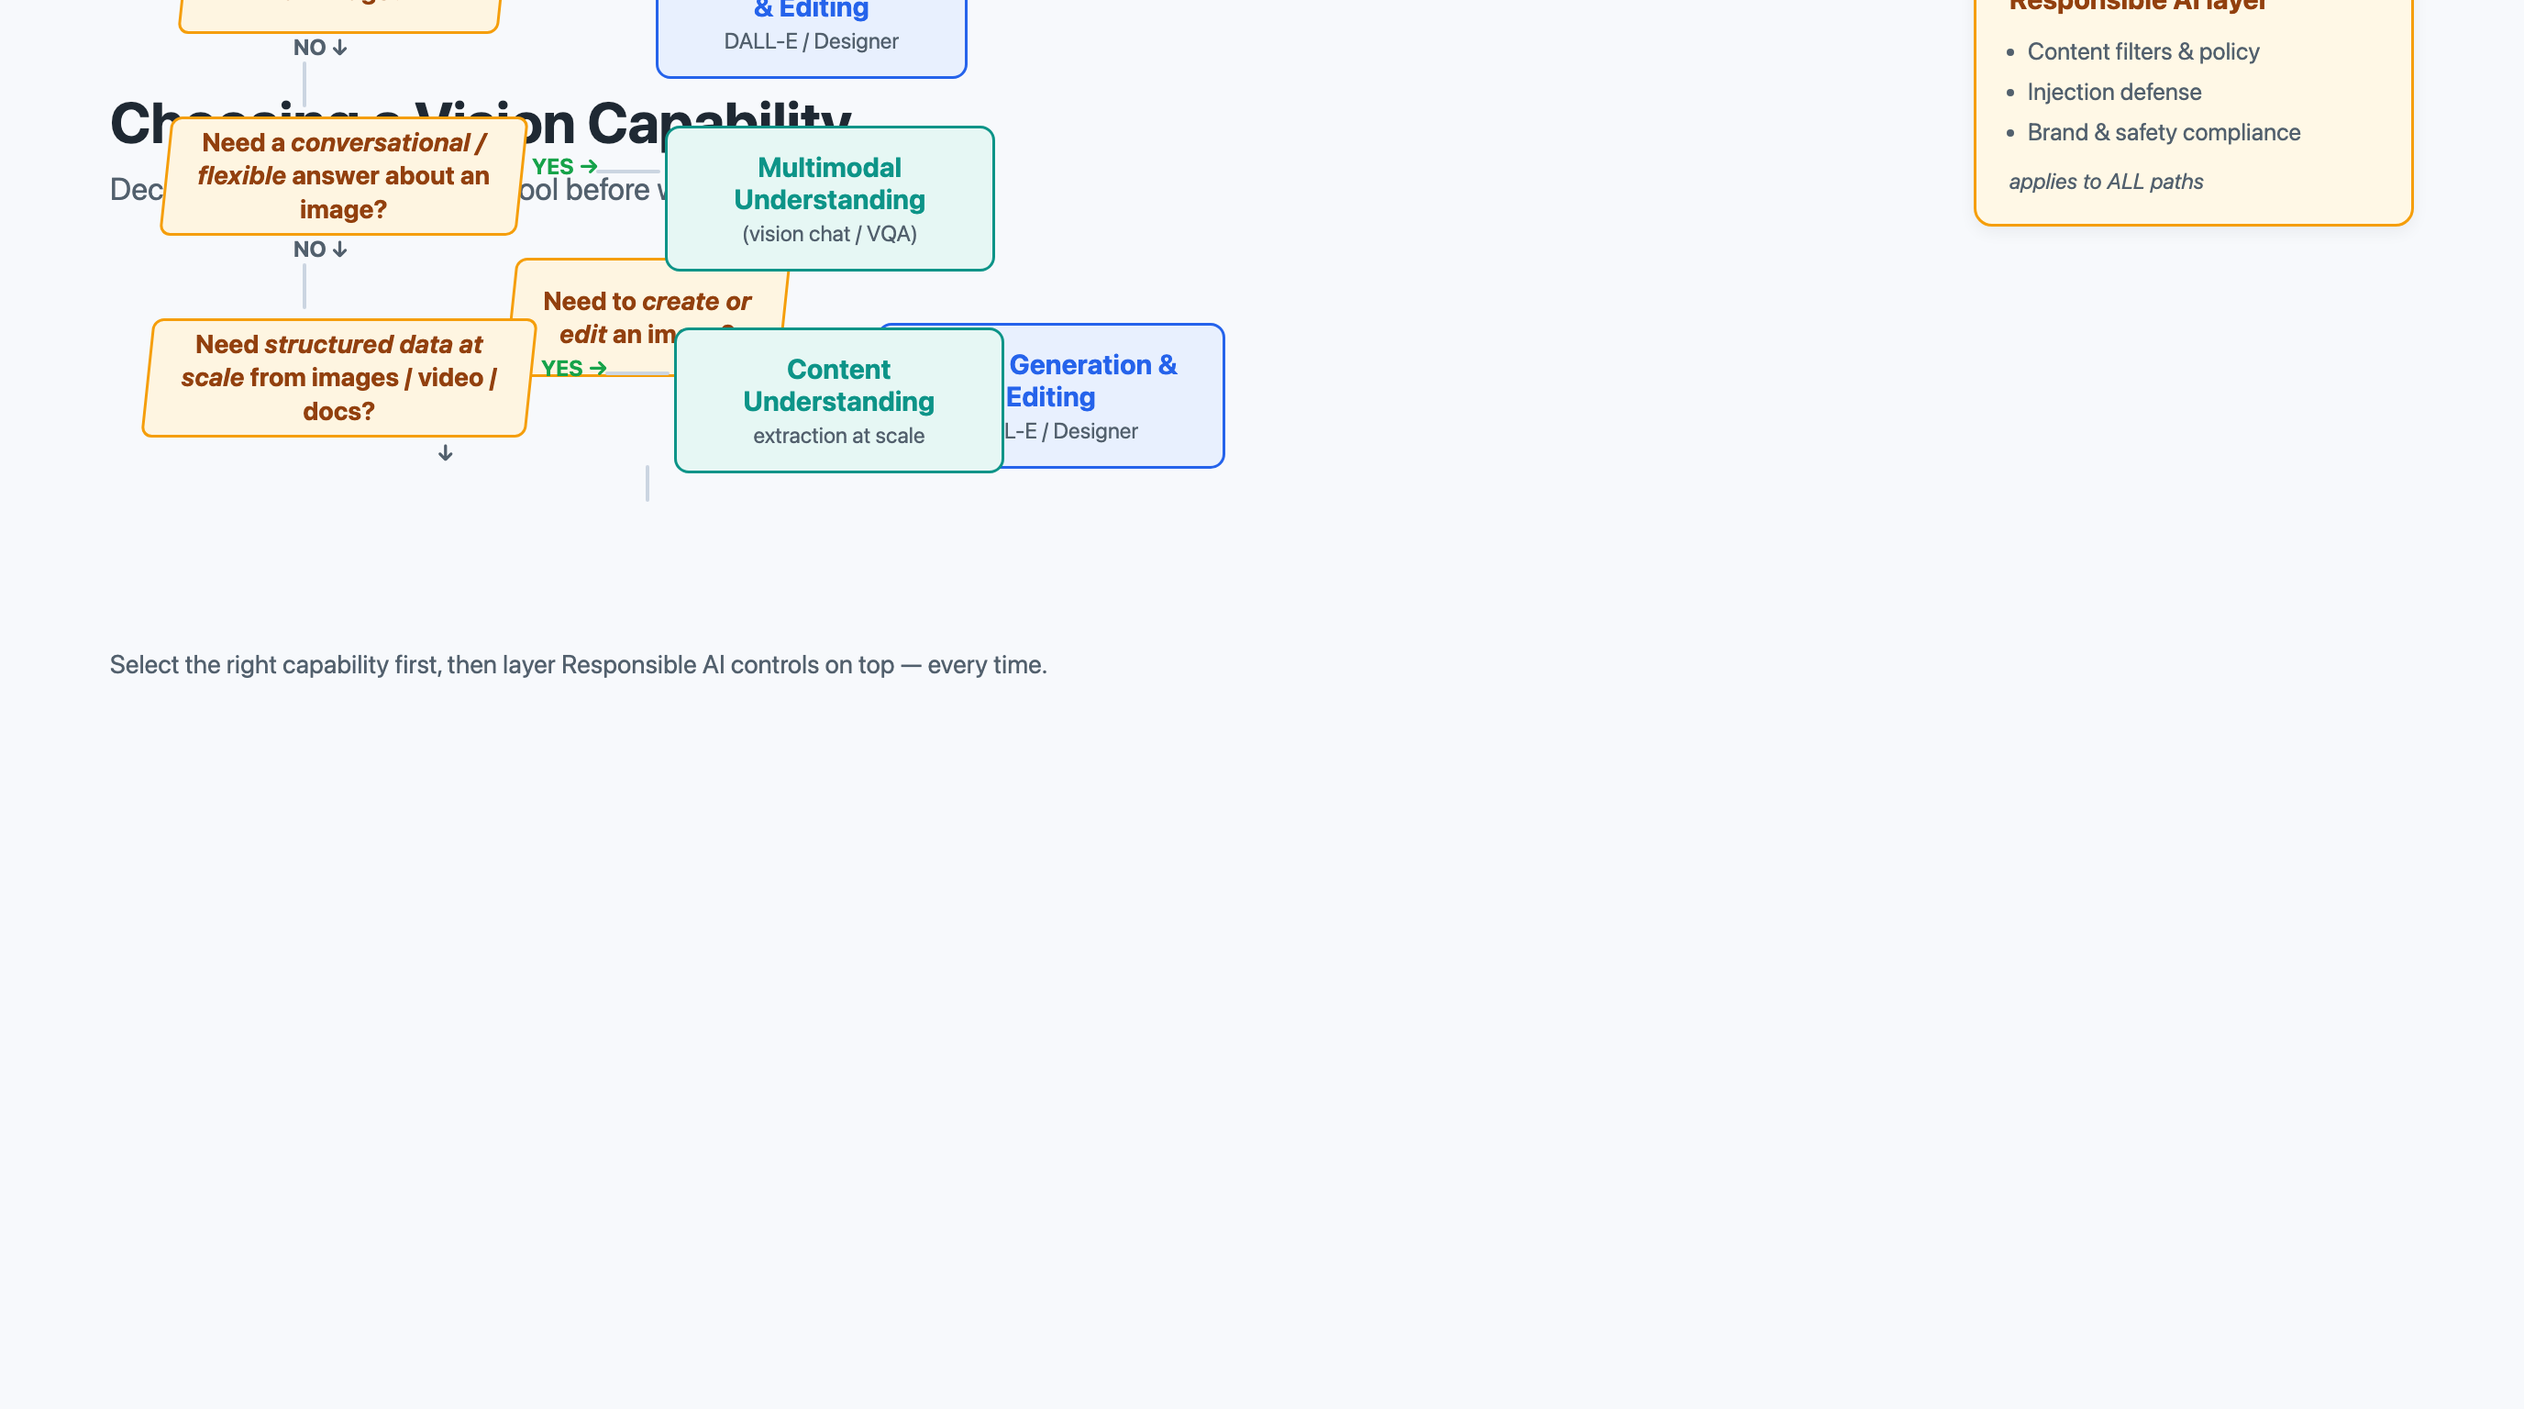
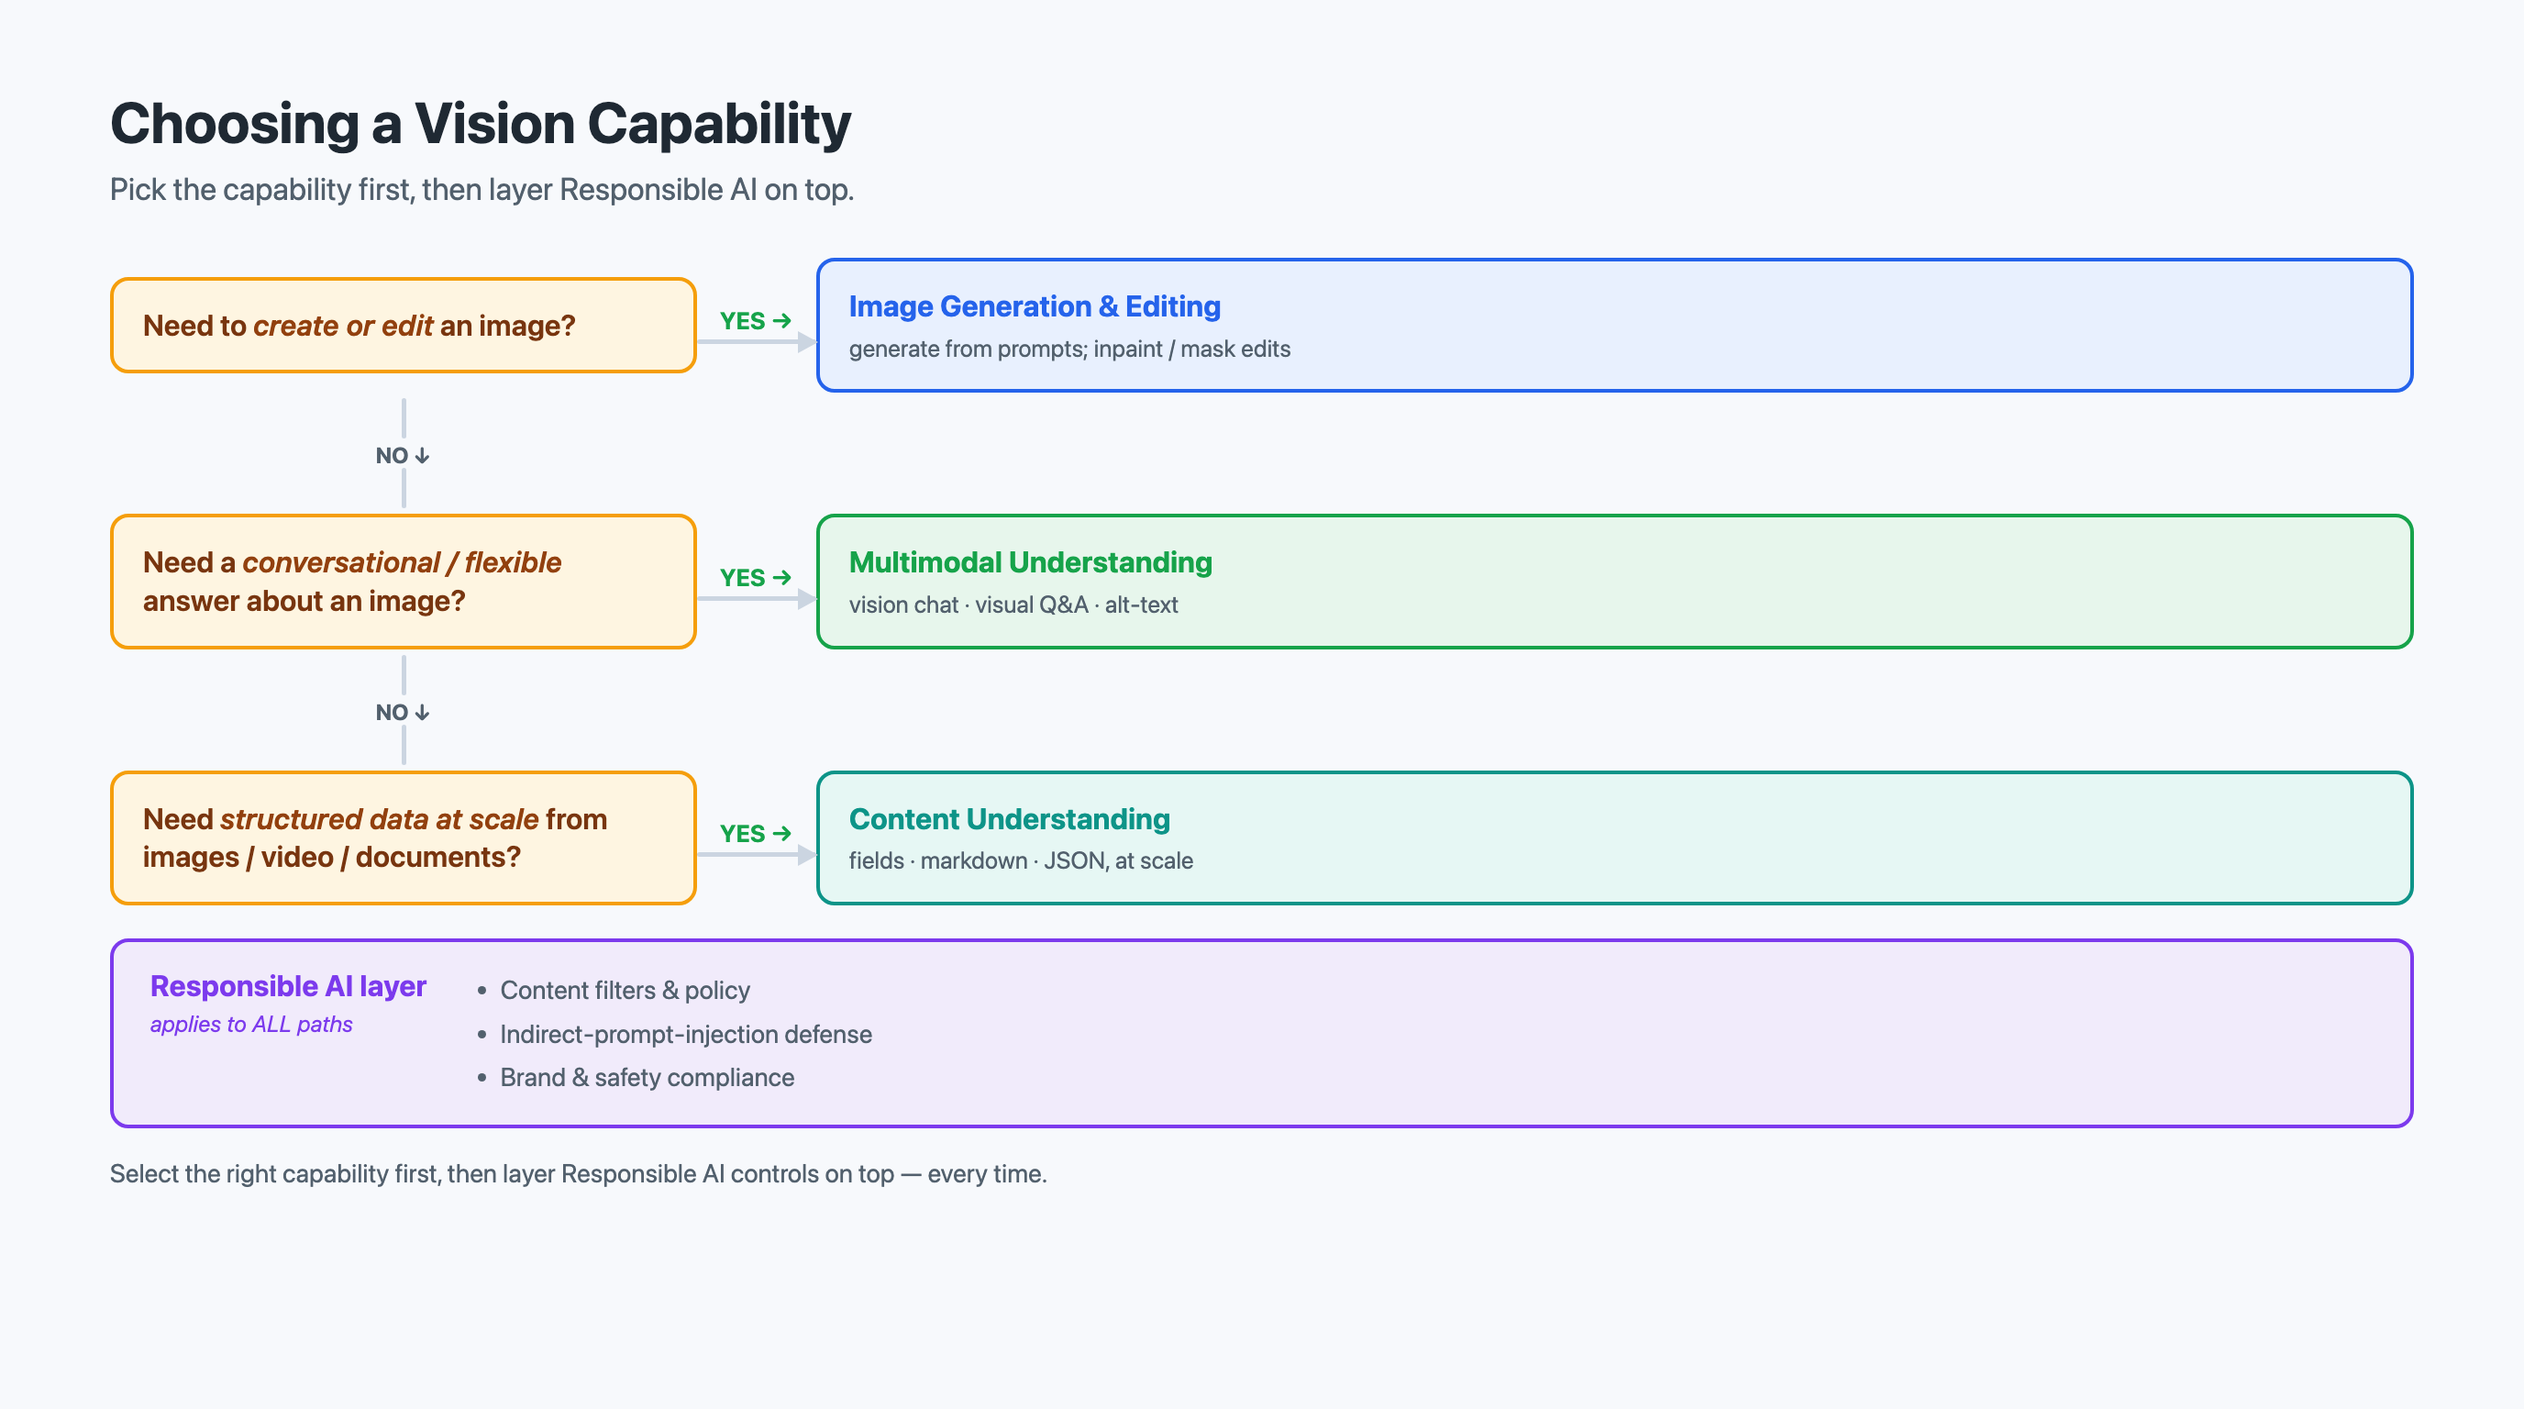
graphics(ch7): rebuild vision selection flowchart, remove DALL-E from vision figures

diff --git a/graphics/src/g7-6-vision-service-selection.html b/graphics/src/g7-6-vision-service-selection.html
@@ -4,131 +4,242 @@
 <meta charset="utf-8">
 <link rel="stylesheet" href="style.css">
 <style>
-.diamond{width:300px;height:130px;background:var(--amber-bg);border:3px solid var(--amber);display:flex;align-items:center;justify-content:center;font-size:28px;font-weight:700;color:#92400e;text-align:center;transform:skewX(-6deg);border-radius:12px;padding:12px 24px;line-height:1.3;}
-.diamond-inner{transform:skewX(6deg);}
-.decision-node{background:var(--blue-bg);border:3px solid var(--blue);border-radius:16px;padding:22px 28px;font-size:28px;font-weight:600;color:var(--blue);text-align:center;}
-.result-node{border-radius:16px;padding:24px 30px;font-size:30px;font-weight:700;text-align:center;}
-.yes-label{font-size:24px;font-weight:700;color:var(--green);}
-.no-label{font-size:24px;font-weight:700;color:var(--muted);}
-.flow-line{background:var(--line);border-radius:3px;}
+/* ── Layout shell ───────────────────────────────────────────── */
+.ladder{
+  display:flex;
+  flex-direction:column;
+  gap:0;
+  flex:1;
+}
+
+/* Each decision row: question box + connector + result box */
+.decision-row{
+  display:flex;
+  align-items:center;
+  gap:0;
+}
+
+/* Question (amber) box — left column */
+.q-box{
+  background:var(--amber-bg);
+  border:4px solid var(--amber);
+  border-radius:20px;
+  padding:28px 32px;
+  font-size:32px;
+  font-weight:600;
+  color:#78350f;
+  line-height:1.3;
+  width:640px;
+  flex-shrink:0;
+}
+.q-box em{ color:#92400e; font-style:italic; }
+
+/* YES → connector */
+.yes-connector{
+  display:flex;
+  flex-direction:column;
+  align-items:center;
+  justify-content:center;
+  width:130px;
+  flex-shrink:0;
+  gap:6px;
+}
+.yes-label{
+  font-size:26px;
+  font-weight:700;
+  color:var(--green);
+  white-space:nowrap;
+}
+.h-line{
+  height:5px;
+  background:var(--line);
+  width:100%;
+  border-radius:3px;
+  position:relative;
+}
+.h-line::after{
+  content:"";
+  position:absolute;
+  right:-2px;
+  top:-9px;
+  border-left:22px solid var(--line);
+  border-top:12px solid transparent;
+  border-bottom:12px solid transparent;
+}
+
+/* Result (capability) box — right column */
+.r-box{
+  flex:1;
+  border-radius:20px;
+  padding:28px 32px;
+  font-size:32px;
+  font-weight:700;
+  line-height:1.3;
+}
+.r-box .r-sub{
+  font-size:26px;
+  font-weight:400;
+  color:var(--muted);
+  margin-top:8px;
+}
+.r-box.blue { background:var(--blue-bg); border:4px solid var(--blue); color:var(--blue); }
+.r-box.green{ background:var(--green-bg);border:4px solid var(--green);color:var(--green);}
+.r-box.teal { background:var(--teal-bg); border:4px solid var(--teal); color:var(--teal); }
+
+/* NO ↓ spacer between rows */
+.no-spacer{
+  display:flex;
+  align-items:flex-start;
+  gap:0;
+  margin:0;
+}
+.no-left{
+  width:640px;
+  flex-shrink:0;
+  display:flex;
+  flex-direction:column;
+  align-items:center;
+  padding:6px 0;
+}
+.v-line{
+  width:5px;
+  height:44px;
+  background:var(--line);
+  border-radius:3px;
+}
+.no-label{
+  font-size:24px;
+  font-weight:700;
+  color:var(--muted);
+  margin-top:4px;
+}
+.no-right{
+  flex:1;
+  width:130px;  /* spacer matching yes-connector */
+}
+
+/* Responsible AI box — full-width footer panel */
+.rai-box{
+  background:var(--purple-bg);
+  border:4px solid var(--purple);
+  border-radius:20px;
+  padding:28px 40px;
+  display:flex;
+  align-items:flex-start;
+  gap:48px;
+}
+.rai-title{
+  font-size:32px;
+  font-weight:700;
+  color:var(--purple);
+  white-space:nowrap;
+  margin-right:8px;
+}
+.rai-bullets{
+  font-size:28px;
+  color:var(--muted);
+  margin:0;
+  padding-left:24px;
+  line-height:1.7;
+}
+.rai-italic{
+  font-size:25px;
+  color:var(--purple);
+  font-style:italic;
+  margin-top:8px;
+  white-space:nowrap;
+}
 </style>
 </head>
 <body>
 <div id="fig">
   <h1 class="fig-title">Choosing a Vision Capability</h1>
-  <p class="fig-sub">Decision flow — pick the right tool before writing code</p>
+  <p class="fig-sub">Pick the capability first, then layer Responsible AI on top.</p>
 
-  <div style="display:grid;grid-template-columns:40px 380px 60px 380px 60px 380px;grid-template-rows:auto 40px auto 40px auto 40px auto;gap:0;align-items:center;justify-items:center;max-width:1800px;margin:20px auto 0;">
+  <!-- Decision ladder -->
+  <div class="ladder">
 
-    <!-- Row 1: First diamond -->
-    <div></div>
-    <div class="diamond"><div class="diamond-inner">Need to <em>create or edit</em> an image?</div></div>
-    <div></div>
-    <div></div>
-    <div></div>
-    <div></div>
-
-    <!-- Row 2: Yes right / No down -->
-    <div></div>
-    <div style="display:flex;align-items:center;justify-content:flex-end;width:100%;gap:12px;padding-right:0;">
-      <span class="yes-label">YES →</span>
-    </div>
-    <div class="flow-line" style="width:60px;height:4px;"></div>
-    <div class="result-node" style="background:var(--blue-bg);border:3px solid var(--blue);color:var(--blue);width:100%;">
-      Image Generation &amp; Editing<br><span style="font-size:24px;font-weight:400;color:var(--muted);">DALL-E / Designer</span>
-    </div>
-    <div></div>
-    <div></div>
-
-    <!-- Row 3: No down arrow + second diamond -->
-    <div style="font-size:24px;font-weight:700;color:var(--muted);">NO ↓</div>
-    <div></div>
-    <div></div>
-    <div></div>
-    <div></div>
-    <div></div>
-
-    <!-- Row 4: arrow -->
-    <div></div>
-    <div class="flow-line" style="width:4px;height:40px;"></div>
-    <div></div>
-    <div></div>
-    <div></div>
-    <div></div>
-
-    <!-- ─── Second question row ─── -->
-    <!-- Actually let me redo this as absolute-positioned for cleaner layout -->
-  </div>
-
-  <!-- Cleaner approach: use absolute positioning within a relative container -->
-  <div style="position:relative;width:100%;height:780px;margin-top:-680px;">
-
-    <!-- Q1: Create or edit? -->
-    <div style="position:absolute;left:80px;top:0;">
-      <div class="diamond" style="width:350px;"><div class="diamond-inner">Need to <em>create or edit</em> an image?</div></div>
-    </div>
-
-    <!-- YES → right → Image Generation -->
-    <div style="position:absolute;left:440px;top:40px;font-size:24px;font-weight:700;color:var(--green);">YES →</div>
-    <div class="flow-line" style="position:absolute;left:510px;top:60px;width:80px;height:4px;"></div>
-    <div style="position:absolute;left:595px;top:20px;">
-      <div class="result-node" style="background:var(--blue-bg);border:3px solid var(--blue);color:var(--blue);width:340px;">
-        Image Generation<br>&amp; Editing<br><span style="font-size:24px;font-weight:400;color:var(--muted);">DALL-E / Designer</span>
+    <!-- ── Row 1 ── -->
+    <div class="decision-row">
+      <div class="q-box">Need to <em>create or edit</em> an image?</div>
+      <div class="yes-connector">
+        <div class="yes-label">YES →</div>
+        <div class="h-line"></div>
+      </div>
+      <div class="r-box blue">
+        Image Generation &amp; Editing
+        <div class="r-sub">generate from prompts; inpaint / mask edits</div>
       </div>
     </div>
 
-    <!-- NO ↓ -->
-    <div style="position:absolute;left:200px;top:130px;font-size:24px;font-weight:700;color:var(--muted);">NO ↓</div>
-    <div class="flow-line" style="position:absolute;left:210px;top:160px;width:4px;height:50px;"></div>
-
-    <!-- Q2: Conversational/flexible? -->
-    <div style="position:absolute;left:60px;top:220px;">
-      <div class="diamond" style="width:390px;"><div class="diamond-inner">Need a <em>conversational / flexible</em> answer about an image?</div></div>
+    <!-- NO ↓ gap 1 -->
+    <div class="no-spacer">
+      <div class="no-left">
+        <div class="v-line"></div>
+        <div class="no-label">NO ↓</div>
+        <div class="v-line"></div>
+      </div>
+      <div class="no-right"></div>
     </div>
 
-    <!-- YES → right → Multimodal Understanding -->
-    <div style="position:absolute;left:460px;top:260px;font-size:24px;font-weight:700;color:var(--green);">YES →</div>
-    <div class="flow-line" style="position:absolute;left:530px;top:278px;width:70px;height:4px;"></div>
-    <div style="position:absolute;left:605px;top:230px;">
-      <div class="result-node" style="background:var(--teal-bg);border:3px solid var(--teal);color:var(--teal);width:360px;">
-        Multimodal Understanding<br><span style="font-size:24px;font-weight:400;color:var(--muted);">(vision chat / VQA)</span>
+    <!-- ── Row 2 ── -->
+    <div class="decision-row">
+      <div class="q-box">Need a <em>conversational / flexible</em> answer about an image?</div>
+      <div class="yes-connector">
+        <div class="yes-label">YES →</div>
+        <div class="h-line"></div>
+      </div>
+      <div class="r-box green">
+        Multimodal Understanding
+        <div class="r-sub">vision chat · visual Q&amp;A · alt-text</div>
       </div>
     </div>
 
-    <!-- NO ↓ -->
-    <div style="position:absolute;left:200px;top:350px;font-size:24px;font-weight:700;color:var(--muted);">NO ↓</div>
-    <div class="flow-line" style="position:absolute;left:210px;top:380px;width:4px;height:50px;"></div>
-
-    <!-- Q3: Structured data at scale? -->
-    <div style="position:absolute;left:40px;top:440px;">
-      <div class="diamond" style="width:420px;"><div class="diamond-inner">Need <em>structured data at scale</em> from images / video / docs?</div></div>
+    <!-- NO ↓ gap 2 -->
+    <div class="no-spacer">
+      <div class="no-left">
+        <div class="v-line"></div>
+        <div class="no-label">NO ↓</div>
+        <div class="v-line"></div>
+      </div>
+      <div class="no-right"></div>
     </div>
 
-    <!-- YES → right → Content Understanding -->
-    <div style="position:absolute;left:470px;top:480px;font-size:24px;font-weight:700;color:var(--green);">YES →</div>
-    <div class="flow-line" style="position:absolute;left:540px;top:498px;width:70px;height:4px;"></div>
-    <div style="position:absolute;left:615px;top:450px;">
-      <div class="result-node" style="background:var(--teal-bg);border:3px solid var(--teal);color:var(--teal);width:360px;">
-        Content Understanding<br><span style="font-size:24px;font-weight:400;color:var(--muted);">extraction at scale</span>
+    <!-- ── Row 3 ── -->
+    <div class="decision-row">
+      <div class="q-box">Need <em>structured data at scale</em> from images&nbsp;/ video&nbsp;/ documents?</div>
+      <div class="yes-connector">
+        <div class="yes-label">YES →</div>
+        <div class="h-line"></div>
+      </div>
+      <div class="r-box teal">
+        Content Understanding
+        <div class="r-sub">fields · markdown · JSON, at scale</div>
       </div>
     </div>
 
-    <!-- Responsible AI side note -->
-    <div style="position:absolute;right:0;top:0;width:480px;">
-      <div class="box" style="background:#fff8e6;border:3px solid var(--amber);padding:32px 36px;">
-        <div style="font-size:30px;font-weight:700;color:#92400e;margin-bottom:16px;">Always apply the<br>Responsible AI layer</div>
-        <ul style="font-size:26px;color:var(--muted);margin:0;padding-left:20px;line-height:1.7;">
-          <li>Content filters &amp; policy</li>
-          <li>Injection defense</li>
-          <li>Brand &amp; safety compliance</li>
-        </ul>
-        <div style="margin-top:16px;font-size:24px;color:var(--muted);font-style:italic;">applies to ALL paths</div>
+    <!-- Spacer before footer -->
+    <div style="height:36px;"></div>
+
+    <!-- ── Responsible AI footer ── -->
+    <div class="rai-box">
+      <div>
+        <div class="rai-title">Responsible AI layer</div>
+        <div class="rai-italic">applies to ALL paths</div>
       </div>
+      <ul class="rai-bullets">
+        <li>Content filters &amp; policy</li>
+        <li>Indirect-prompt-injection defense</li>
+        <li>Brand &amp; safety compliance</li>
+      </ul>
     </div>
 
-  </div>
+    <!-- Spacer before note -->
+    <div style="height:32px;"></div>
 
-  <p class="note" style="margin-top:20px;">Select the right capability first, then layer Responsible AI controls on top — every time.</p>
+    <p class="note" style="margin:0;">Select the right capability first, then layer Responsible AI controls on top — every time.</p>
+
+  </div><!-- /ladder -->
 </div>
 </body>
 </html>

diff --git a/graphics/src/g7-5-vision-capability-matrix.html b/graphics/src/g7-5-vision-capability-matrix.html
@@ -36,7 +36,7 @@ td{font-size:28px;line-height:1.4;}
       <tr>
         <td>
           <span class="tag blue" style="margin-bottom:8px;display:inline-block;">Image Generation &amp; Editing</span><br>
-          <span style="font-size:26px;color:var(--muted);">DALL-E / Designer</span>
+          <span style="font-size:26px;color:var(--muted);">image generation models</span>
         </td>
         <td>Text prompt + optional reference media / mask</td>
         <td>New or edited images</td>
